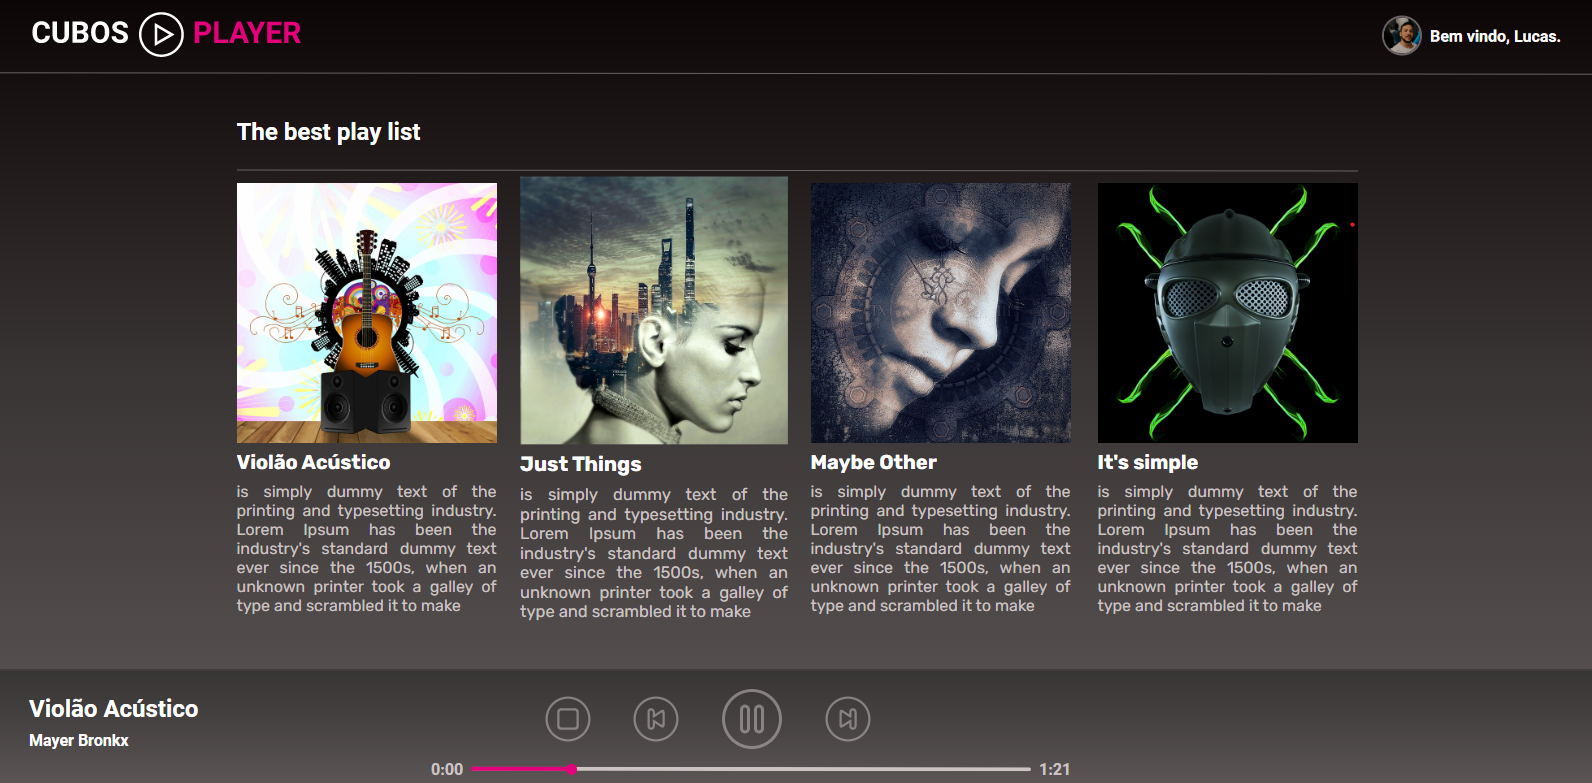
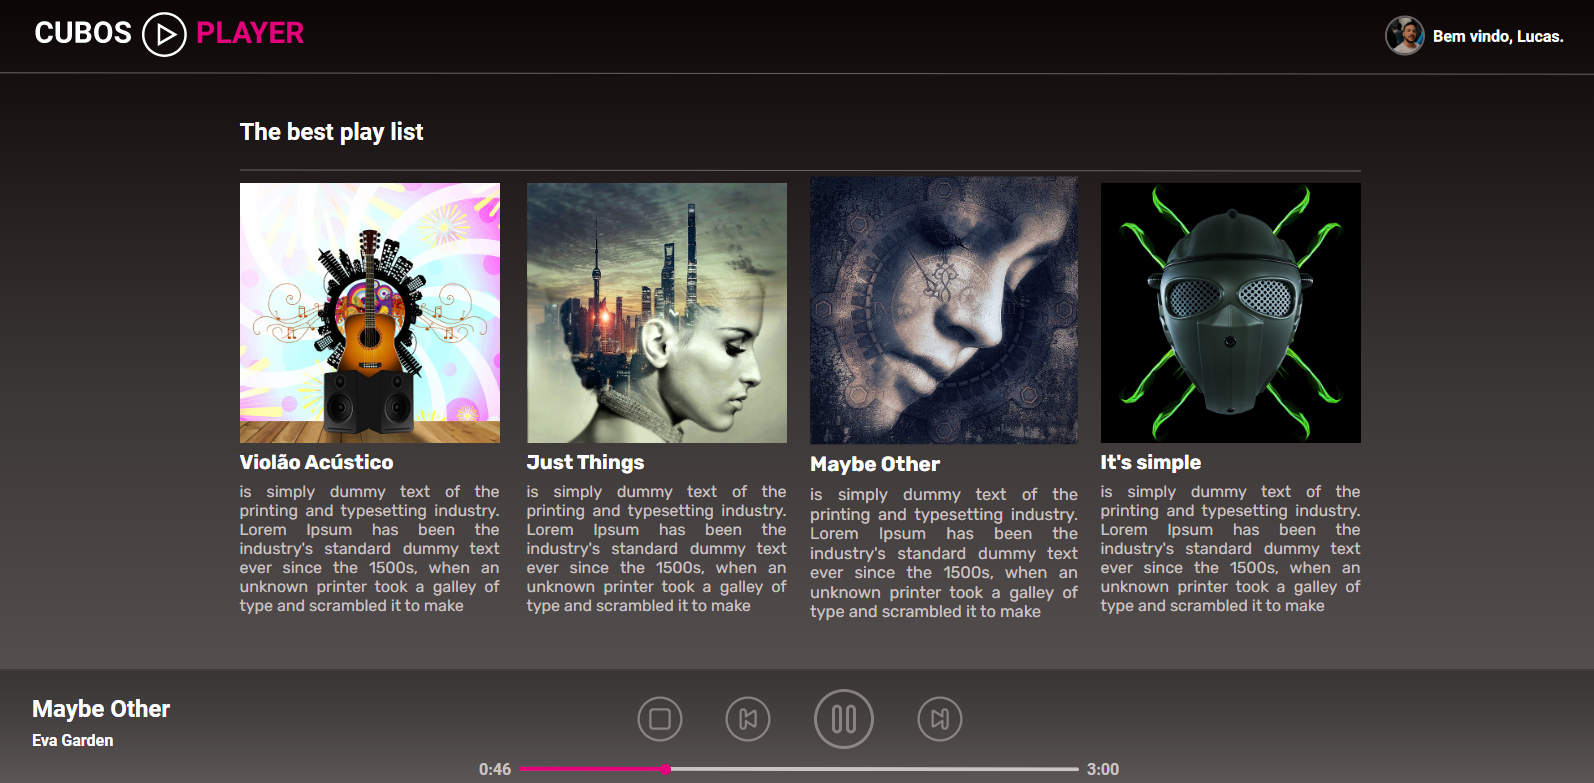
Projeto Music Player - Correção de bug do timer

diff --git a/src/components/Controls/index.jsx b/src/components/Controls/index.jsx
@@ -9,7 +9,7 @@ import { musics } from "../../musics.js"
 function Controls({ title, artist, urlMusic, musicInfoDuration, setMusicInfo, playPause, setPlayPause, audioRef, progressRef, timer, setTimer }) {
   let interval;
   let seconds;
-  let minutes = "0";
+  let minutes;
 
   function handlePlayPauseMusic() {
     if (urlMusic) {
@@ -17,11 +17,13 @@ function Controls({ title, artist, urlMusic, musicInfoDuration, setMusicInfo, pl
         const duration = audioRef.current.duration / 60;
         const currentTimePercent = ((audioRef.current.currentTime / 60) * 100) / duration;
 
-        seconds = parseInt(audioRef.current.currentTime).toString().padStart(2, "0");
+        minutes = parseInt(audioRef.current.currentTime / 60);
+        seconds = Math.round(((audioRef.current.currentTime / 60) % 1) * 60).toString().padStart(2, "0");
 
         if (seconds > "59") {
-          minutes = parseInt(audioRef.current.currentTime / 60).toString();
-          seconds = Math.round(((audioRef.current.currentTime / 60) % 1) * 60).toString().padStart(2, "0");
+          seconds = "00";
+          minutes += 1
+          console.log("oi");
         }
 
         setTimer(`${minutes}:${seconds}`)
